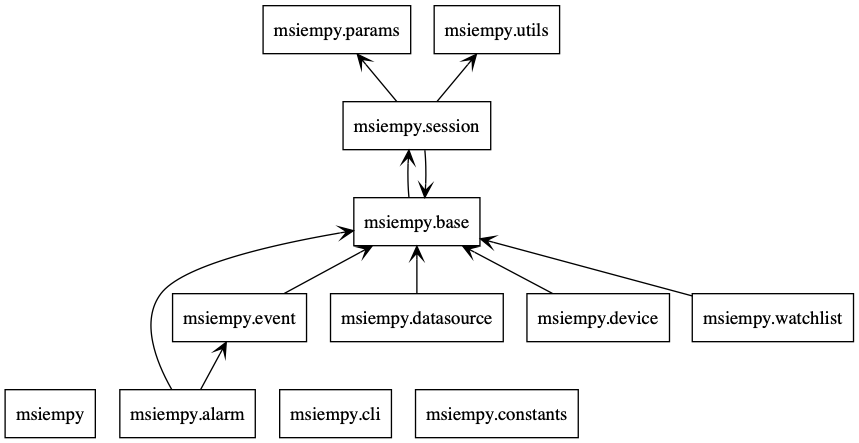
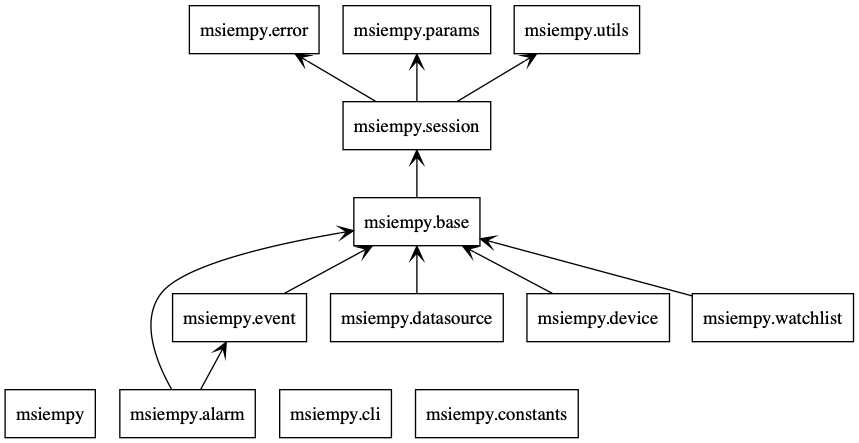
documenting

diff --git a/msiempy/session.py b/msiempy/session.py
@@ -1,4 +1,6 @@
-"""Session
+"""Session package regroup method and classes that are shared by all msiempy objects.
+NitroSession class
+NitroConfig class
 """
 
 import logging
@@ -19,6 +21,8 @@ from .params import PARAMS
 def log(verbose=False, logfile=None) -> object:
     """
     Private method. Inits the session's logger based on params
+    #TODO not too sure where to put the logger init method, 
+    All objects should be able to log stuff, NitroConig too, so the logger must be globaly accessible
     """
 
     log = logging.getLogger()
@@ -47,14 +51,10 @@ def log(verbose=False, logfile=None) -> object:
 
 class NitroSession():
     """NitroSession object represent the point of convergence of every request to the McFee ESM
-
     It provides standard dialogue with the esm with params.py
-    
     Internal __dict__ refers to a unique instance of dict and thus, properties can be instanciated only once.
-
     No need to call a login() method
-
-    Use logout() to delete the object
+    Use logout() to delete the object.
     """
 
     BASE_URL = 'https://{}/rs/esm/'
@@ -66,7 +66,14 @@ class NitroSession():
     def __str__(self):
         return repr(self.__unique_state__) 
 
-    def __init__(self, conf_path=None, **config):
+    def __init__(self, conf_path=None, config=None):
+        """
+        This init method is called every time you call NitroSession() constructor
+        but teh properties are actually initiated only once.
+        Use logout() to trash the obejct and re instanciate NitroSession
+        Configuration file path can be passed as conf_path attr and a config dict
+        can we read from config attr ie {'esm':{'host':'myhost.com','user':'username','passwd':'p22ssw0rd'}}
+        """
         self.__dict__ = NitroSession.__unique_state__
         
         #Init properties only once
@@ -80,7 +87,7 @@ class NitroSession():
             self._logged=False
             
             #Config parsing
-            self.config = NitroConfig(path=conf_path, **config)
+            self.config = NitroConfig(path=conf_path, config=config)
 
             self.log = log(
                 verbose=self.config.verbose,
@@ -93,8 +100,9 @@ class NitroSession():
 
     def _request(self, method, http, data=None, callback=None, raw=False, secure=False) -> object:
         """
-        Helper method
-        If method is all upper cases, a private API is done.
+        Helper method that format the request, handle the basic parsing of the SIEM result 
+        as well as other errors.        
+        If method is all upper cases, it's a private API call.
         Private API is under /ess/ and public api is under /rs/esm
         """
 
@@ -171,8 +179,11 @@ class NitroSession():
         except Exception as e:
             self.log.error(e)
         
-    def _login(self, user=None, passwd=None):
-
+    def _login(self):
+        """
+        Internal method that will be called when the user is not logged yet.
+        Throws NitroError if login fails
+        """
         userb64 = tob64(self.config.user)
         passb64 = self.config.passwd
         
@@ -191,7 +202,15 @@ class NitroSession():
 
     def request(self, request, http='post', callback=None, raw=False, secure=False, *arg, **params) -> object:
         """
-            This method is the centralized interface of all request coming to the SIEM
+            This method is the centralized interface of all request coming to the SIEM.
+                request :   keyword corresponding to the request name in PARAMS mapping
+                http :      http method
+                callback :  a callable to execute on the returned object if needed
+                raw :       if true will return the Response object from requests module
+                secure :    if true will not log the content of the request
+                *arg :      supplementary attributes (TBD)
+                **params : Interpolation parameters that will be match to PARAMS template
+
         """
         self.log.debug("Calling request with params :"+str(params))
 
